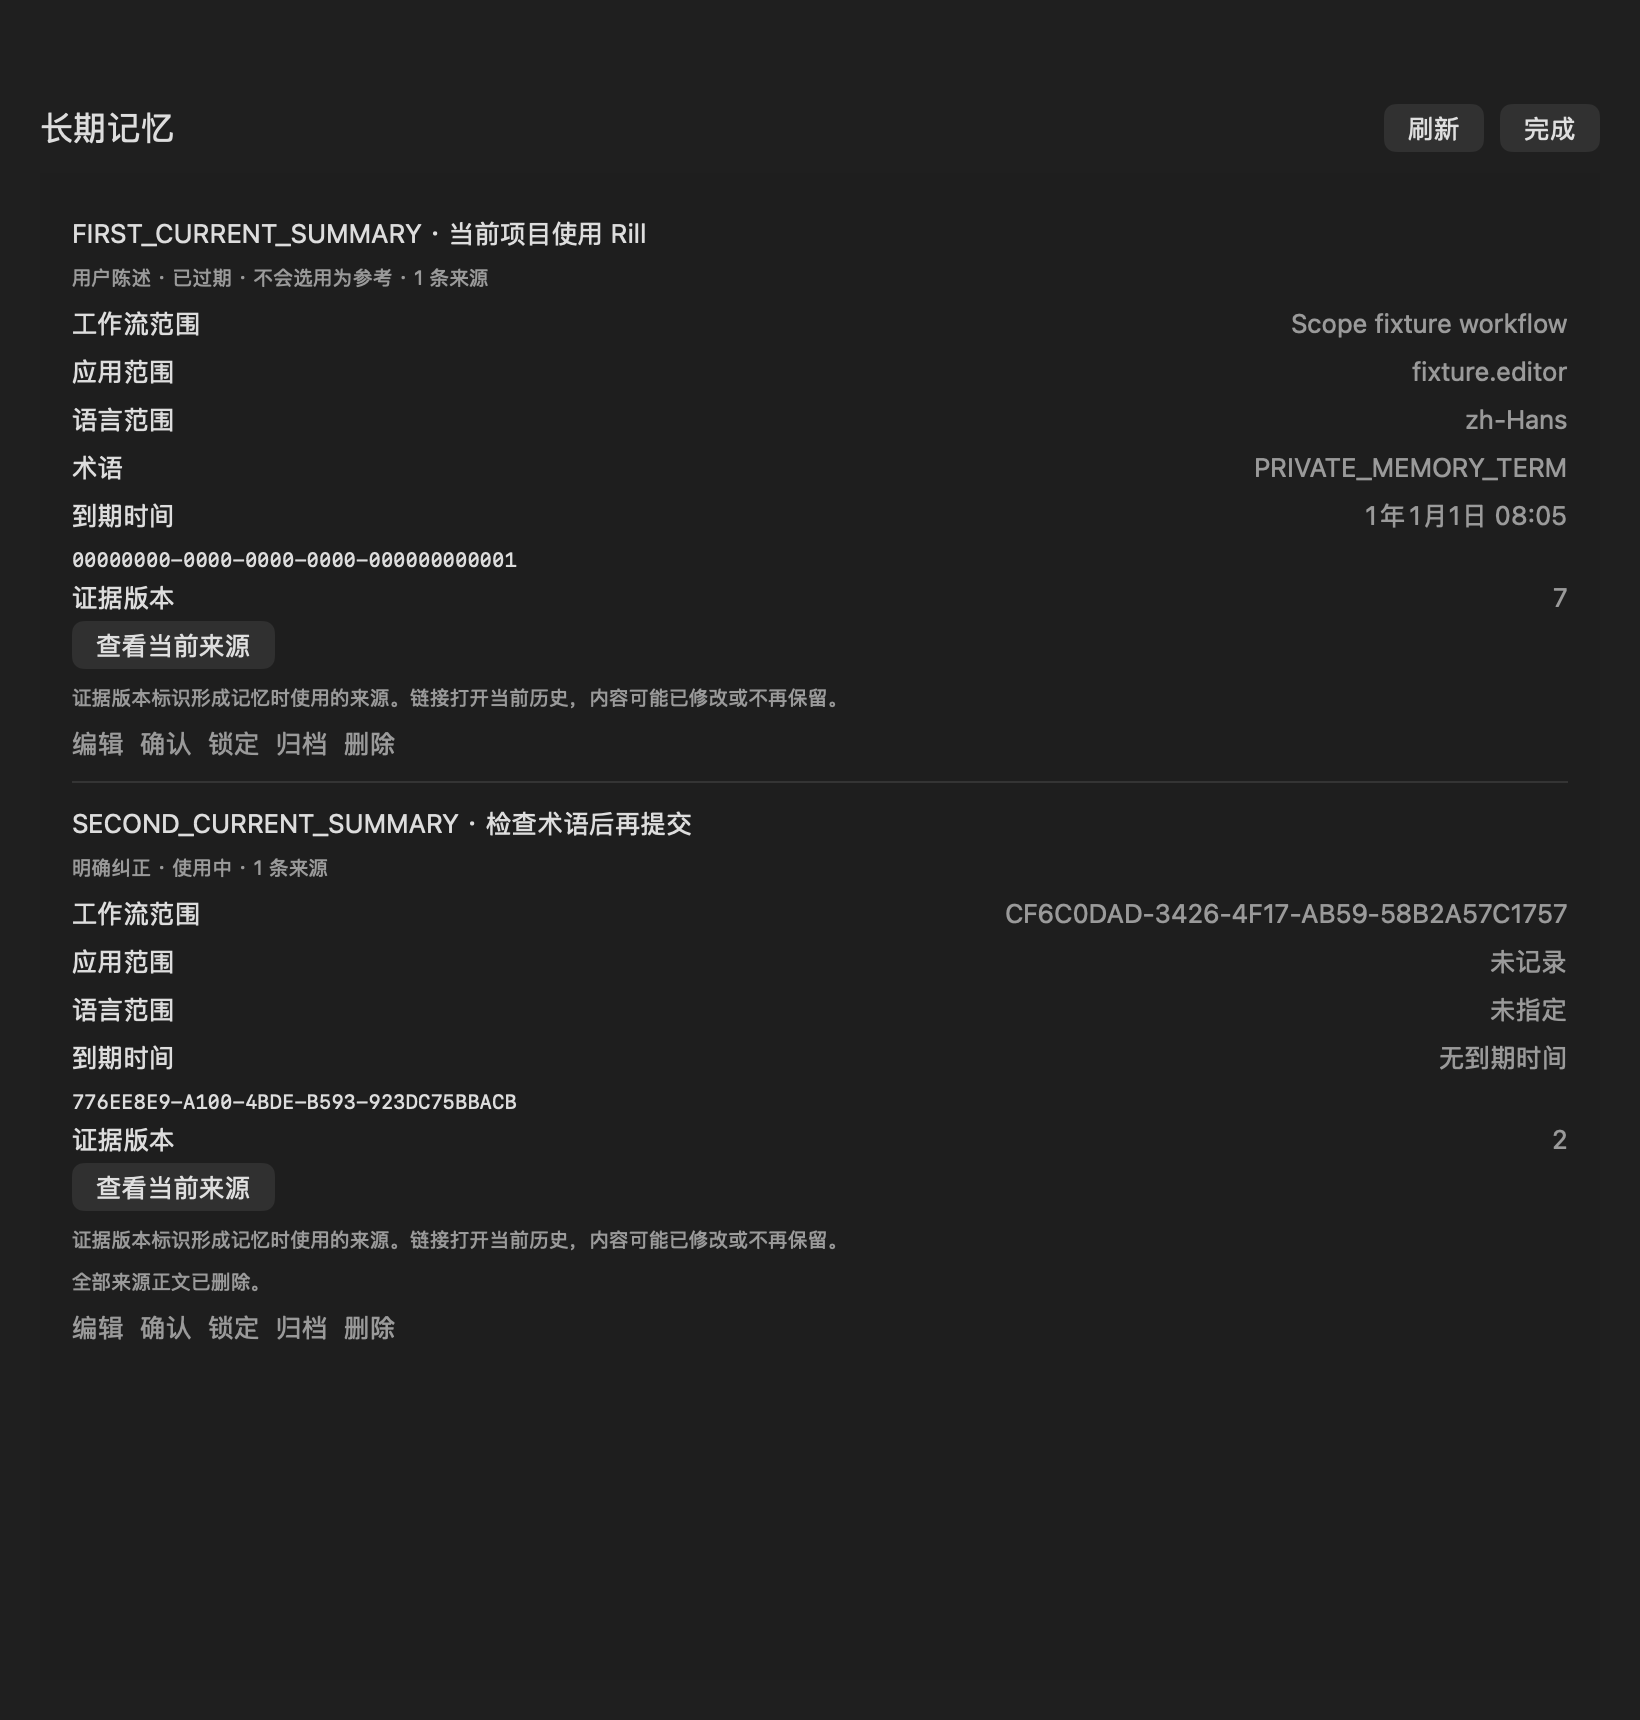
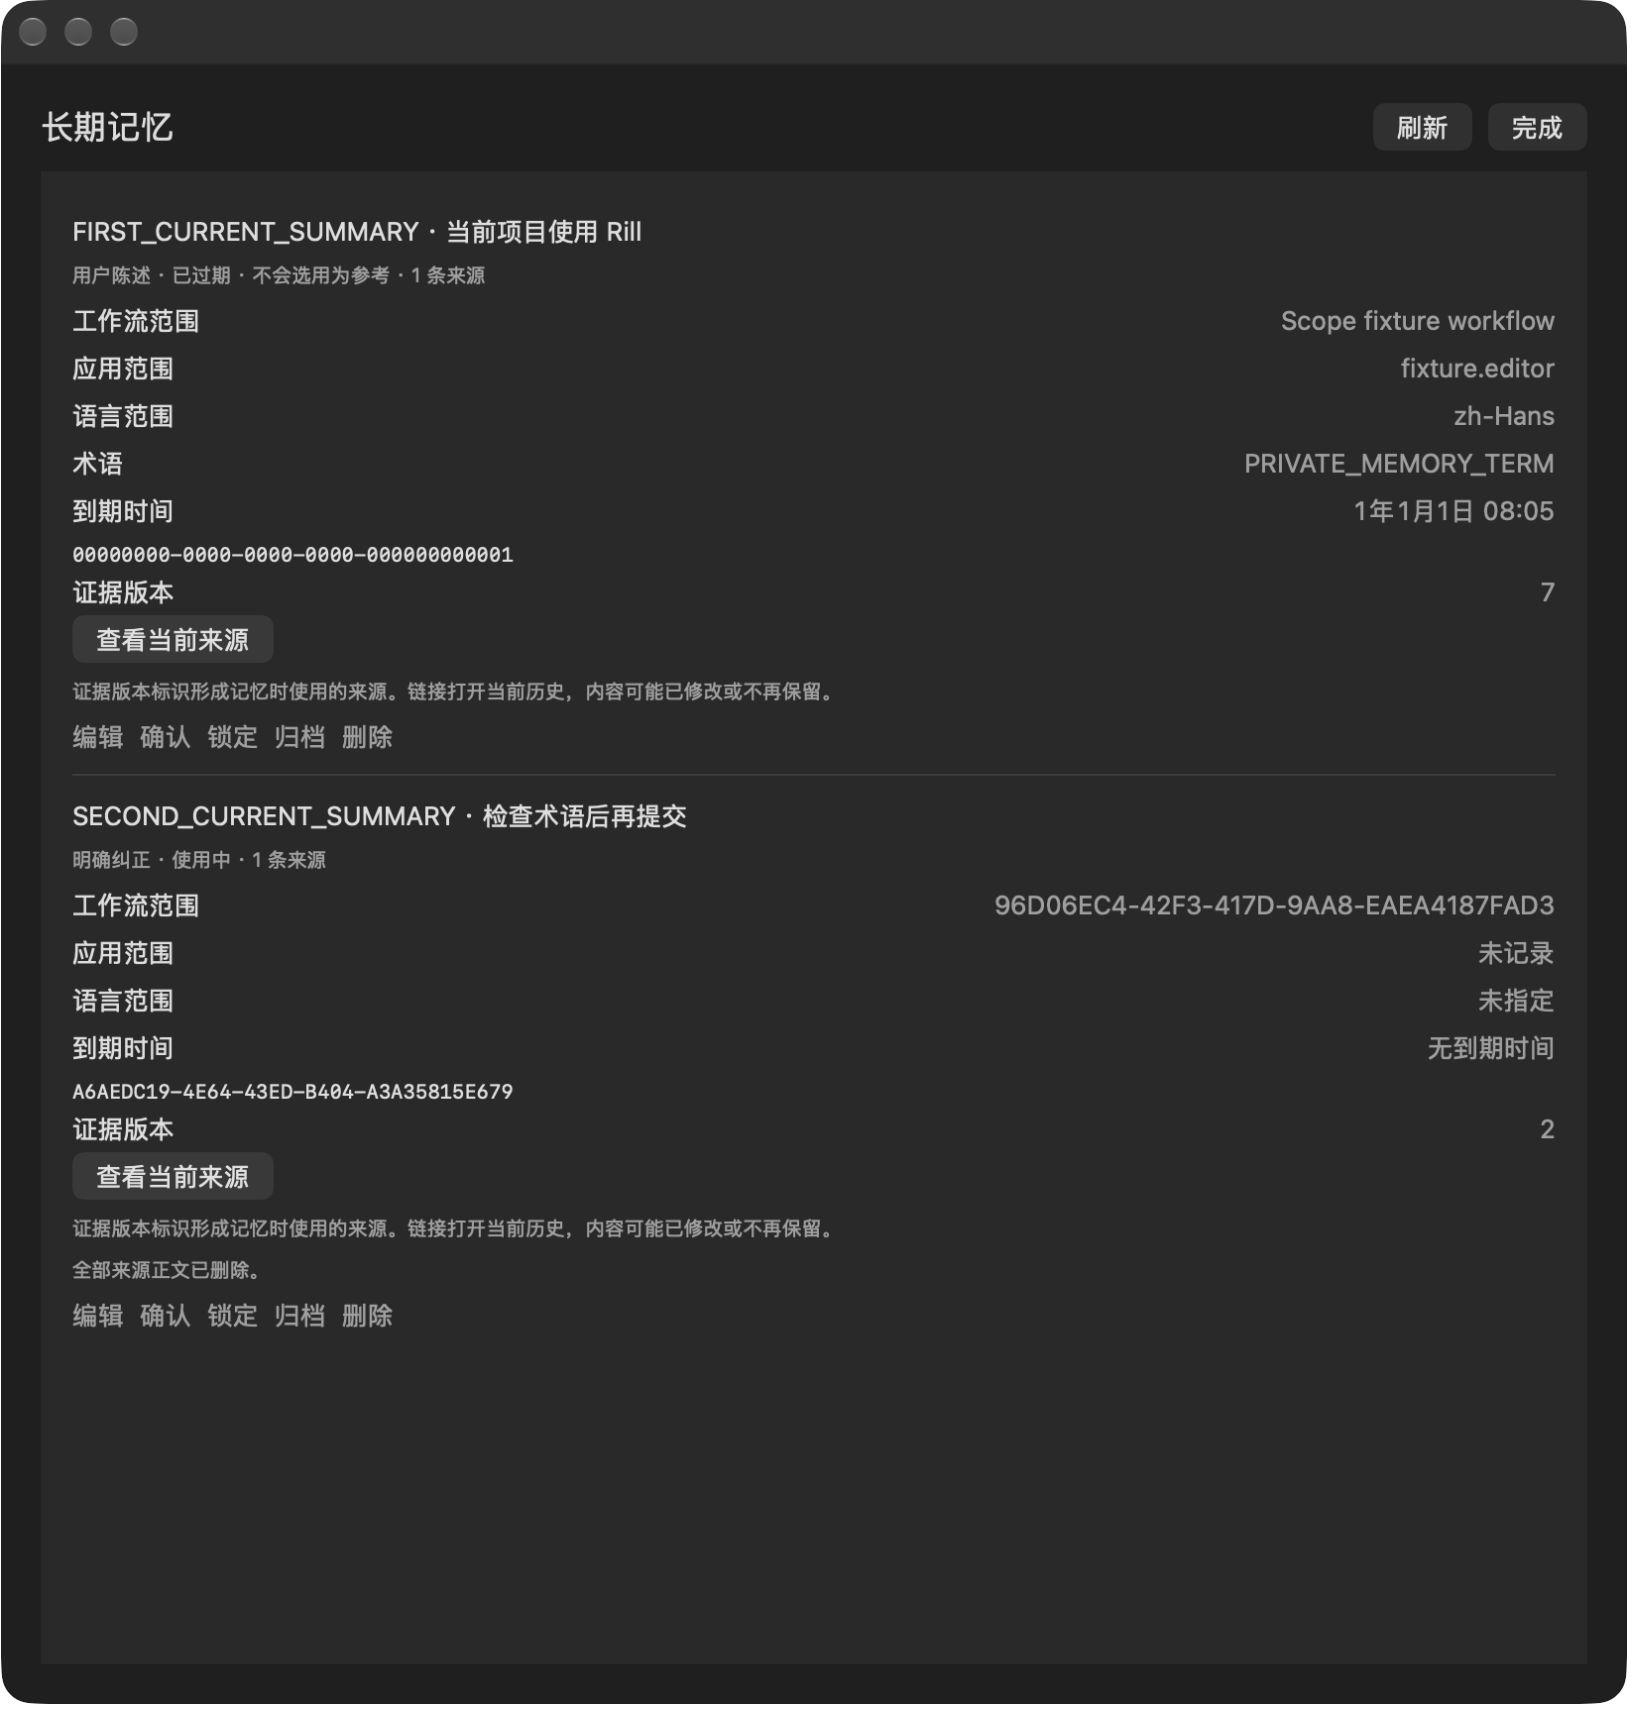
✅ test(memory): capture complete native windows for review

diff --git a/Tests/RillUITests/UIRenderEvidenceTests.swift b/Tests/RillUITests/UIRenderEvidenceTests.swift
@@ -21,14 +21,15 @@ final class UIRenderEvidenceTests: XCTestCase {
       for dark in [false, true] {
         let variant = "\(language.rawValue)-\(dark ? "dark" : "light")"
         try await render(
-          MemoryManagementView(model: fixture.model, workflows: [fixture.workflow], language: language, openSource: { _ in }),
+          MemoryManagementView(model: fixture.model, workflows: [fixture.workflow], language: language, openSource: { _ in })
+            .environment(\.locale, language.formattingLocale),
           size: NSSize(width: 820, height: 1_000), dark: dark,
           to: output.appendingPathComponent("memory-management-\(variant).png"))
         try await render(
           CorrectionReferenceView(
             receipt: fixture.receipt, memories: fixture.model.memories, workflows: [fixture.workflow],
             previewMode: .full, language: language, manageMemories: {}, isExpanded: true
-          ).padding(20),
+          ).padding(20).environment(\.locale, language.formattingLocale),
           size: NSSize(width: 760, height: 720), dark: dark,
           to: output.appendingPathComponent("memory-references-\(variant).png"))
       }
